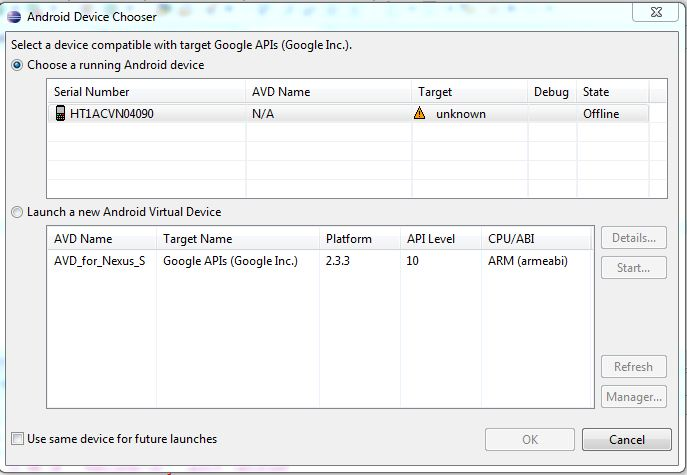
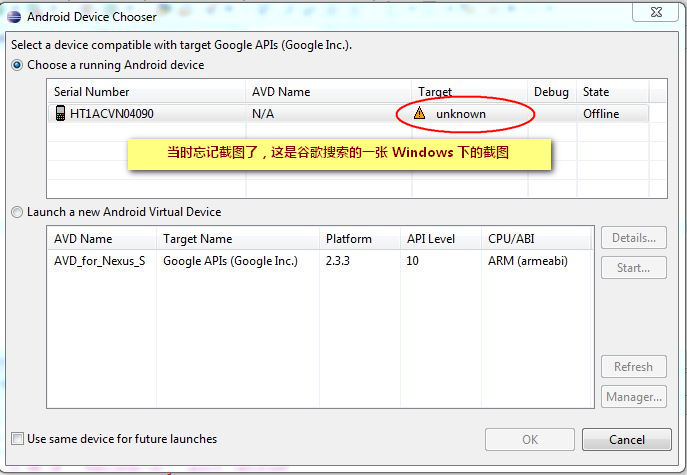
Site updated at 2014-08-19 02:33:43 UTC

Changed region(s): [[0.1834, 0.2063, 0.8253, 0.3832], [0.6419, 0.1768, 0.7031, 0.2063]]

diff --git a/index.html b/index.html
@@ -161,6 +161,8 @@
 <p>就将 5037 端口的进程杀掉重启就可以了，实在不行就重启一下电脑。</p>
 
 <p>最后拔掉手机重新连接一下，手机会提示是否允许连接这台电脑进行 USB 调试，确定后应该就可以了。</p>
+
+<p><img src="/images/blog/android_device_chooser_sucess.png"></p>
 </div>
   
   

diff --git a/blog/2014/08/19/fix-unknown-android-phone-device-for-mac/index.html b/blog/2014/08/19/fix-unknown-android-phone-device-for-mac/index.html
@@ -158,6 +158,8 @@
 <p>就将 5037 端口的进程杀掉重启就可以了，实在不行就重启一下电脑。</p>
 
 <p>最后拔掉手机重新连接一下，手机会提示是否允许连接这台电脑进行 USB 调试，确定后应该就可以了。</p>
+
+<p><img src="/images/blog/android_device_chooser_sucess.png"></p>
 </div>
 
 
